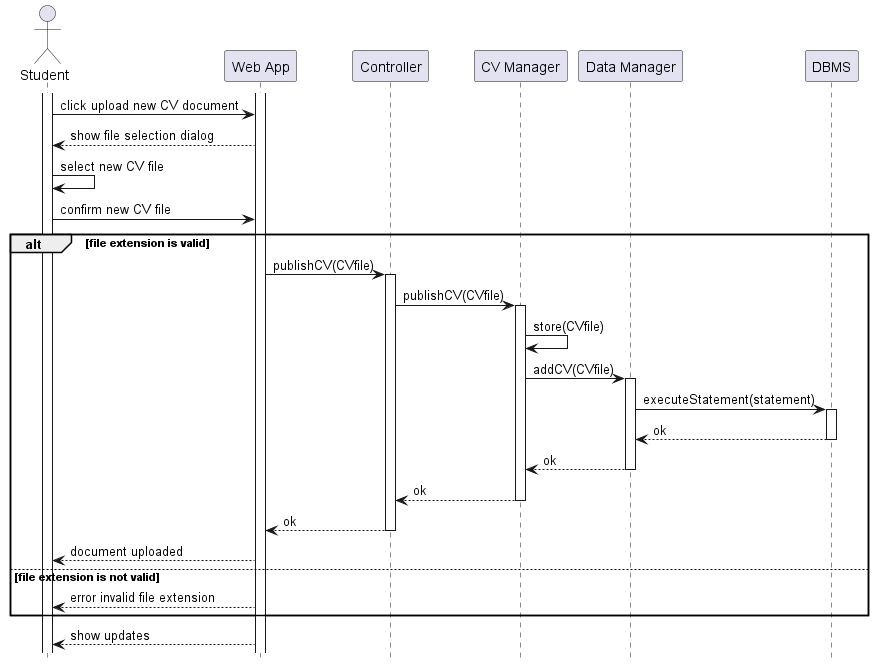
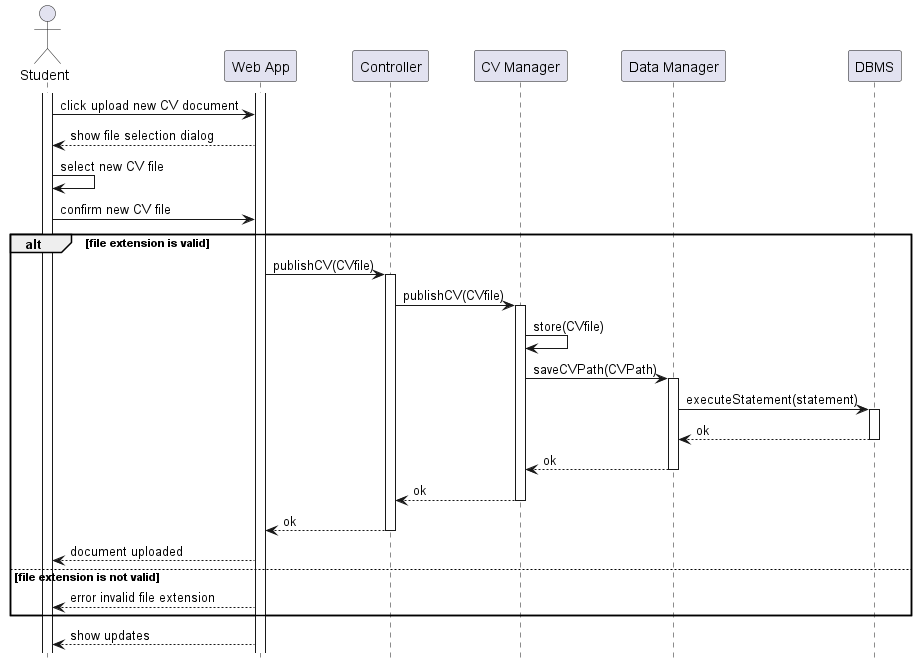
fix: fix RV8, RV12, RV13, RV15, RV21 diagrams

diff --git a/DD/Architectural_design/main.tex b/DD/Architectural_design/main.tex
@@ -30,6 +30,7 @@
 \subsection{Component interfaces}
 %TODO: add introduction
 %TODO
+%TODO: review!!
 \begin{itemize}
     \item \textbf{Controller: RestAPI interface}
     \begin{itemize}
@@ -73,7 +74,7 @@
         \item sendNotifyMatchDeclined(matchProposal)
         \item sendNotifyMeeting(meeting)
         \item sendNotifyContract(contract)
-        \item sendNotify(result) %%%%% ???
+        \item sendNotifyRejection()
         \item notifyRemoveChat(internshipID, studentID)
         \item sendNotifyMessage(message)
         \item notifyReport(report)
@@ -157,7 +158,6 @@
         \item getCompanyRecommendations(companyID)
         \item addInternship(companyID, internshipID, tags)
         \item updateInternshipTags(companyID, internshipID, tags)
-        \item updateInternshipTags(tags) %%%%%% RV15
         \item deleteInternship(companyID, internshipID)
         \item deleteInternship(internshipId) %%%%% RV29
         \item updateCV(digitalizedCV)
@@ -190,15 +190,15 @@
         \item getStudentID(userEmail)
         \item getCompanyID(companyMemberEmailAddress)
         \item updateRecommendations(studentID, recommendations)
-        \item updateRecommendations(companyID, recommendations) %%%%%%%%% RV6
+        \item updateRecommendations(companyID, recommendations)
         \item addInternshipProposal(internshipData)
-        \item modifyInternship(internshipID, internshipData)
         \item deleteInternshipProposal(internshipID)
         \item getInternshipsByKeywords(keywords)
         \item modifyCV(text, section)
-        \item addCV(CVfile) %%%%% review
-        \item updateRecomendation(newRecommendation) %%%%%% RV13, typo
-        \item modifyInternshipDetails(internshipDetails) %%%%% RV15
+        \item saveCVPath(CVPath)
+        \item newRecommendation(studentID, newRecommendation)
+        \item newRecommendation(companyID, newRecommendation)
+        \item modifyInternshipDetails(internshipID, internshipDetails)
         \item getInternshipDetails(internshipID)
         \item getCV(studentID)
         \item addMatchProposal(matchProposal)
@@ -222,7 +222,7 @@
 \end{itemize}
 \subsection{Runtime views}
 %TODO: add introduction
-
+%TODO: add diagrams descriptions
 \runtimeview
 {Registration of a university member}
 {}
